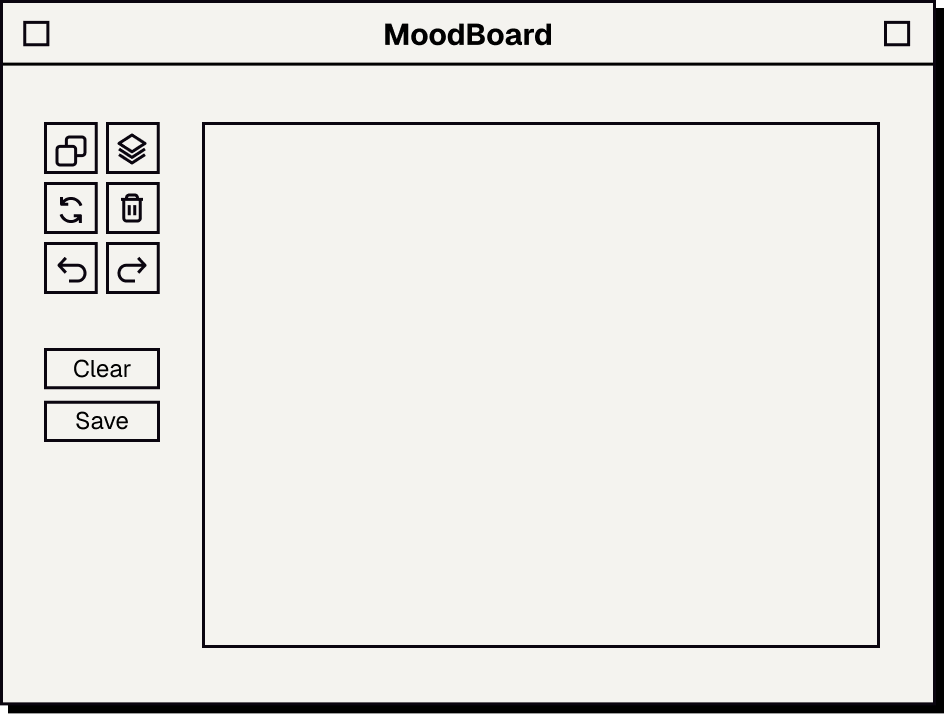
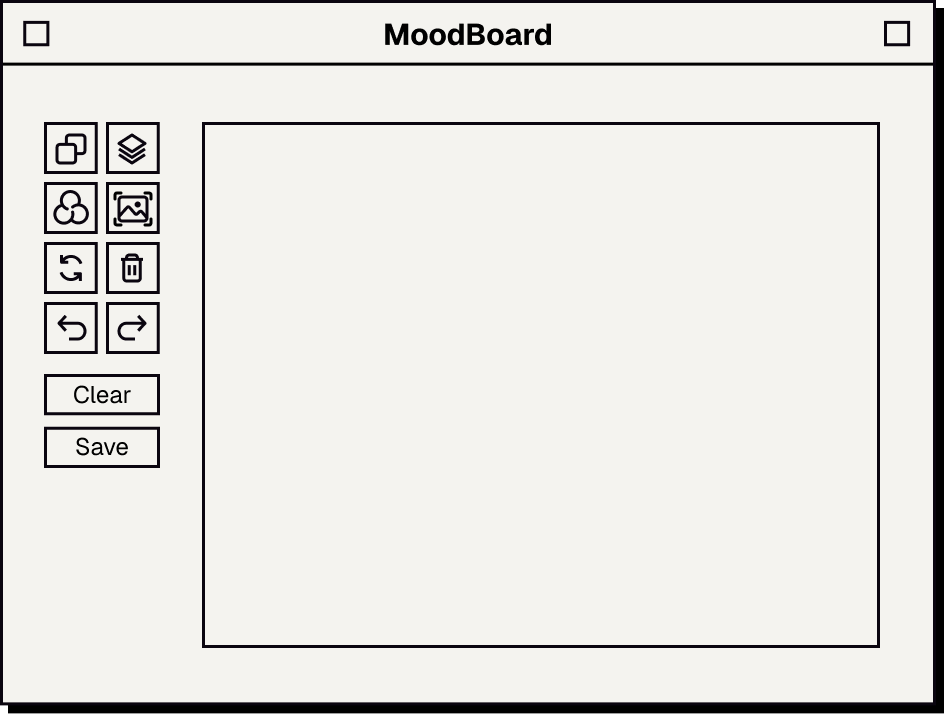
feat: 官网 CREATE 动画工具栏升级为 2×4 八按钮布局
新增 Filter / Stroke 按钮并重绘工具栏图标，保持原有 Copy / Layer /
Save 的交互动画路径不变；同步更新背景图与 Save 点击坐标。

Changed region(s): [[0.0307, 0.1849, 0.1843, 0.6779]]

diff --git a/assets/style.css b/assets/style.css
@@ -735,56 +735,80 @@ html[lang="de"] #hero .hero-buttons {
 
 
 
-/* 左侧工具栏高亮覆盖层 */
+/* 左侧工具栏：覆盖背景图中已绘制的工具栏，重建为 2×4 的 HTML 网格。
+   覆盖层底色与原图纸张色一致（#F4F3EF），无缝遮住旧图标。 */
 .create-toolbar {
   position: absolute;
-  inset: 0;
+  left: 14px;
+  top: 55px;
+  width: 78px;
+  height: 182px;
+  background-color: #F4F3EF;
   z-index: 20;
   pointer-events: none;
 }
 
-.create-toolbar .btn-tool {
+.create-toolbar-grid {
   position: absolute;
-  background: transparent;
-  border: none;
+  left: 8px;    /* 全局 X = 22px */
+  top: 6px;     /* 全局 Y = 61px */
+  display: grid;
+  grid-template-columns: repeat(2, 26px);
+  grid-auto-rows: 26px;
+  column-gap: 5px;
+  row-gap: 4px;
+}
+
+.create-toolbar .btn-tool,
+.create-toolbar .btn-label {
+  box-sizing: border-box;
+  border: 1px solid #0A050F;
+  background-color: transparent;
   padding: 0;
   margin: 0;
+  font-family: inherit;
   cursor: pointer;
   pointer-events: auto;
   display: flex;
   align-items: center;
   justify-content: center;
-  font-family: inherit;
-  color: transparent;
-}
-
-.create-toolbar .btn-copy {
-  left: 22px;
-  top: 61px;
-  width: 26px;
-  height: 26px;
-}
-
-.create-toolbar .btn-layer {
-  left: 53px;
-  top: 61px;
-  width: 26px;
-  height: 26px;
-}
-
-.create-toolbar .btn-save {
-  left: 22px;
-  top: 200px;
-  width: 58px;
-  height: 20px;
-  font-size: 11px;
   transition: background-color 0.15s ease, color 0.15s ease;
 }
 
+.create-toolbar .btn-tool {
+  width: 26px;
+  height: 26px;
+  color: transparent;
+}
+
+.create-toolbar .btn-tool img {
+  display: block;
+  width: 100%;
+  height: 100%;
+  pointer-events: none;
+}
+
+.create-toolbar .btn-label {
+  position: absolute;
+  left: 8px;
+  width: 58px;
+  height: 20px;
+  color: #0A050F;
+  font-size: 11px;
+}
+
+.create-toolbar .btn-clear { top: 128px; }
+.create-toolbar .btn-save  { top: 157px; }
+
 /* 高亮/反色：黑色背景 + 白色图标/文字 */
-.create-toolbar .btn-tool.is-active {
+.create-toolbar .btn-tool.is-active,
+.create-toolbar .btn-label.is-active {
   background-color: #0A050F;
   color: #F4F3EF;
+}
+
+.create-toolbar .btn-tool.is-active img {
+  filter: invert(1);
 }
 
 /* 像素光标：初始置于画布右下角之外（隐藏） */

diff --git a/index.html b/index.html
@@ -215,11 +215,20 @@
           <div class="how-image create-stage">
           <img src="assets/images/create-browser-bg.png" class="create-bg" alt="MoodBoard" />
 
-          <!-- 工具栏高亮覆盖层（用于后续按钮反色） -->
+          <!-- 左侧工具栏：2×4 网格，共 8 个按钮 -->
           <div class="create-toolbar">
-            <button class="btn-tool btn-copy" aria-label="Copy"></button>
-            <button class="btn-tool btn-layer" aria-label="Layer"></button>
-            <button class="btn-tool btn-save" aria-label="Save">Save</button>
+            <div class="create-toolbar-grid">
+              <button class="btn-tool btn-copy" aria-label="Copy"><img src="assets/images/toolbar-copy.png" alt="" /></button>
+              <button class="btn-tool btn-layer" aria-label="Layer"><img src="assets/images/toolbar-layer.png" alt="" /></button>
+              <button class="btn-tool btn-rotate" aria-label="Rotate"><img src="assets/images/toolbar-rotate.png" alt="" /></button>
+              <button class="btn-tool btn-delete" aria-label="Delete"><img src="assets/images/toolbar-delete.png" alt="" /></button>
+              <button class="btn-tool btn-undo" aria-label="Undo"><img src="assets/images/toolbar-undo.png" alt="" /></button>
+              <button class="btn-tool btn-redo" aria-label="Redo"><img src="assets/images/toolbar-redo.png" alt="" /></button>
+              <button class="btn-tool btn-filter" aria-label="Filter"><img src="assets/images/toolbar-filter.png" alt="" /></button>
+              <button class="btn-tool btn-stroke" aria-label="Stroke"><img src="assets/images/toolbar-stroke.png" alt="" /></button>
+            </div>
+            <button class="btn-label btn-clear" aria-label="Clear">Clear</button>
+            <button class="btn-label btn-save" aria-label="Save">Save</button>
           </div>
 
           <!-- 右侧画布与初始散落元素 -->

diff --git a/assets/create-animation.js b/assets/create-animation.js
@@ -48,7 +48,7 @@
     purpleGrab:  { x: 333, y: 122.5 },   // 紫色花中心
     purpleDrop:  { x: 270, y: 140 },     // 紫色花落点：瓶口中上方
     // 步骤 6：保存
-    saveBtn:     { x: 51,  y: 210 }      // Save 按钮中心
+    saveBtn:     { x: 51,  y: 222 }      // Save 按钮中心
   };
 
   // 素材目标位移（相对其 base left/top）
